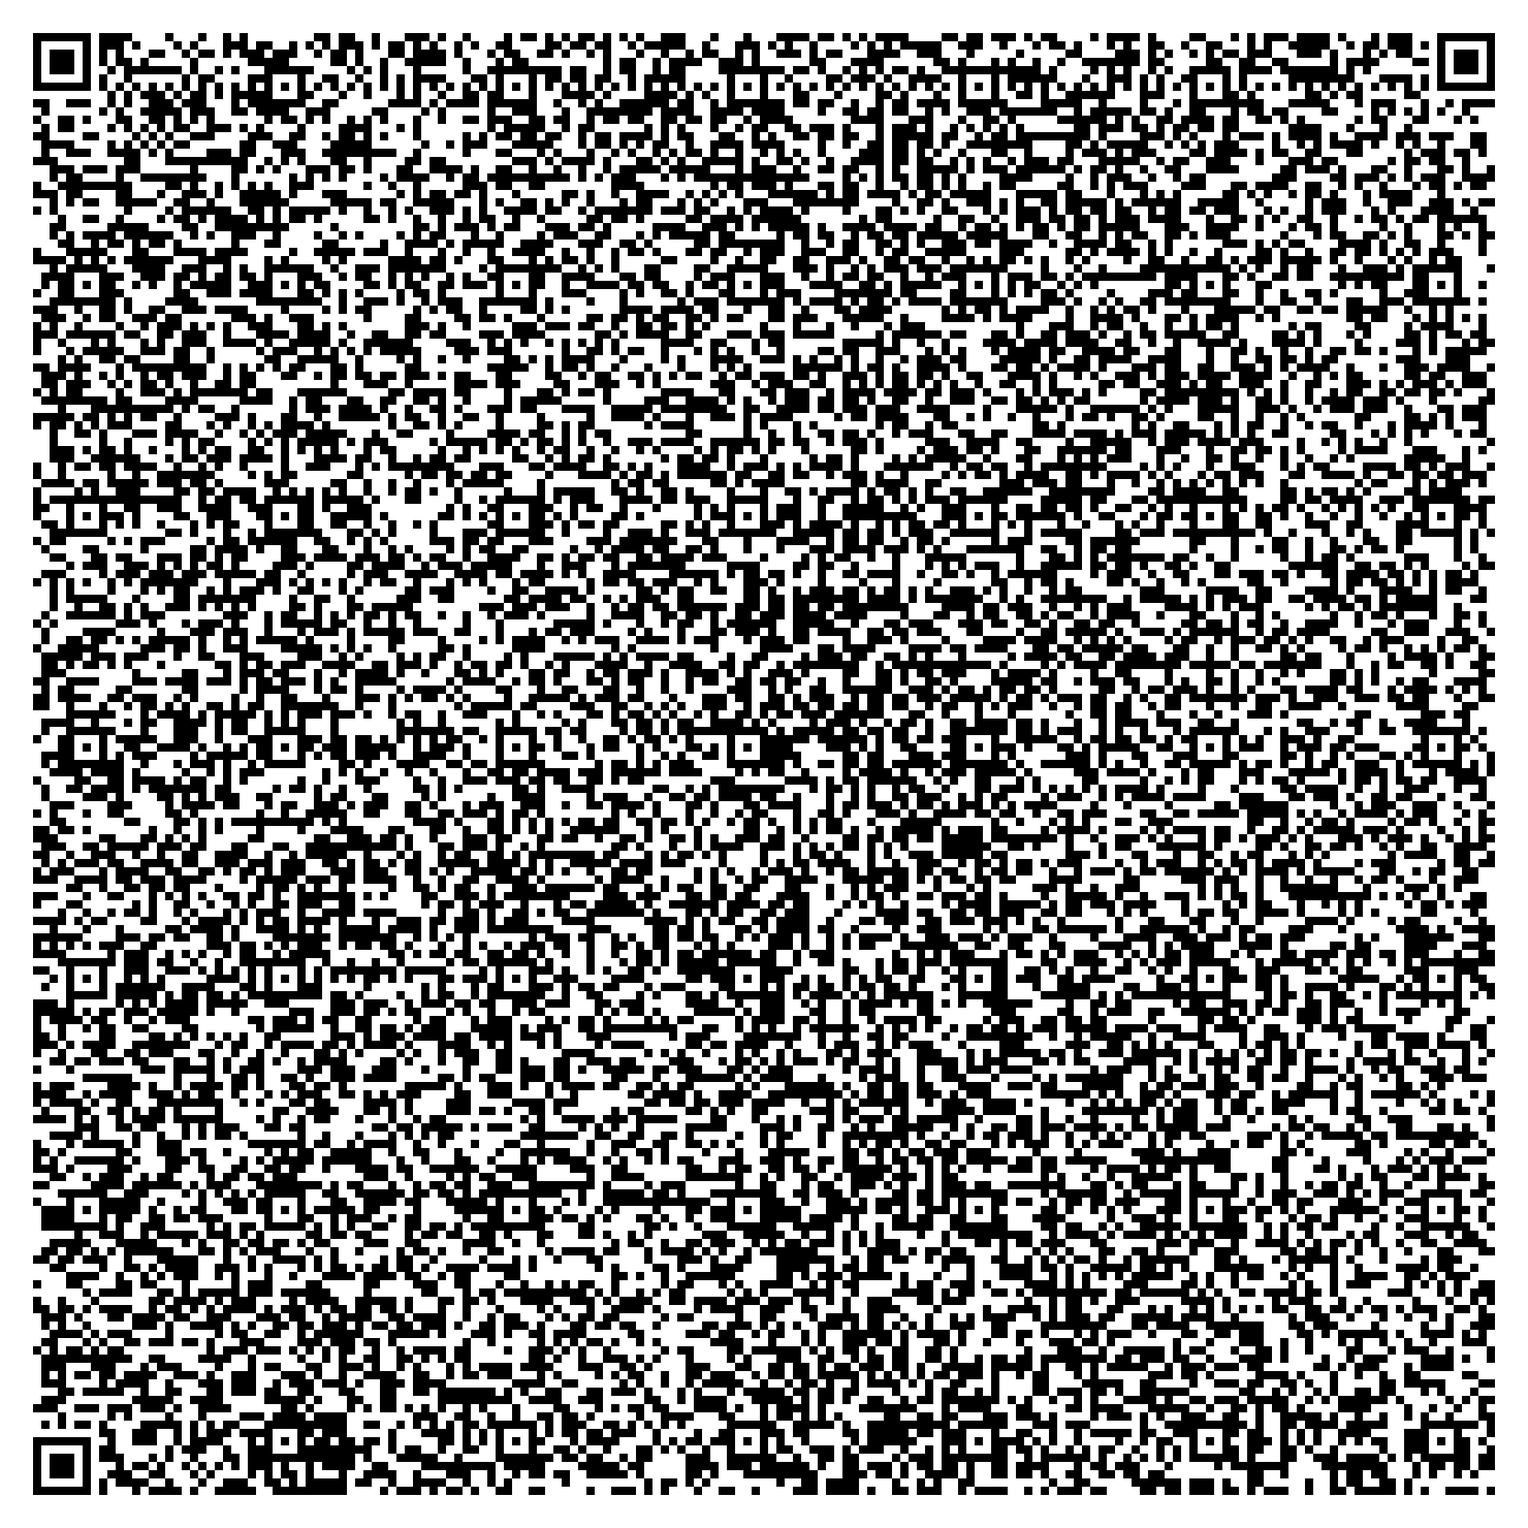
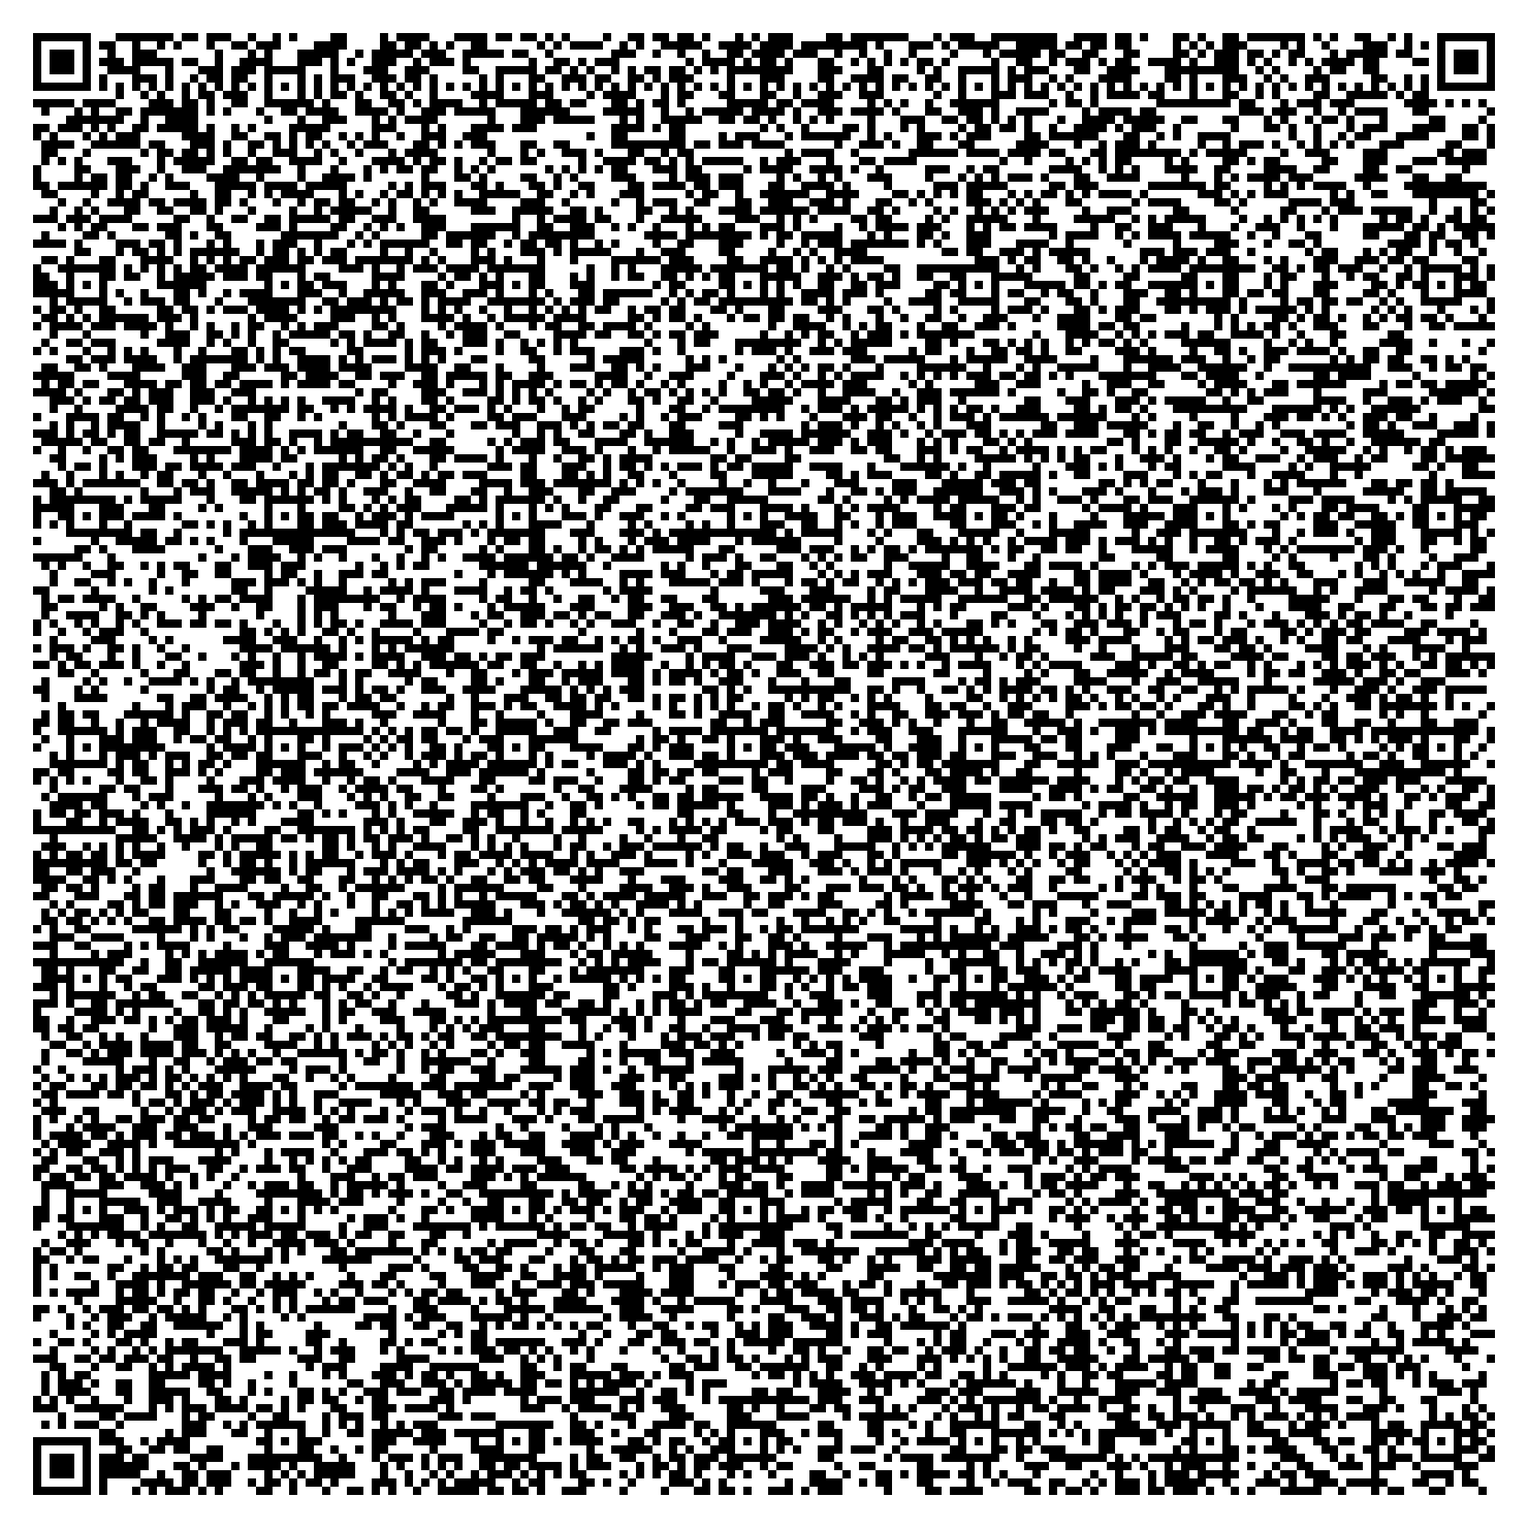
add about

diff --git a/about.html b/about.html
@@ -27,29 +27,117 @@
             </header>
             <article>
                 <p>
-                    <strong>qrforth</strong> is a tiny implementation of the <a href="https://en.wikipedia.org/wiki/Forth_(programming_language)">Forth</a> programming language that fits in a <a href="qrcode.html">QR code</a>. The heart of qrforth is a miniaturized <a href="https://www.rust-lang.org/">Rust</a> library compiled to <a href="https://webassembly.org/">WebAssembly</a> resulting in a ~1.3kB binary. The qrforth Rust library is responsible for the Forth stack, 11 primitive words, and API functions that allow the qrforth javascript code to easily access the state of the stack and registers. Javascript is used to initialize the webassembly module, accept user input, and define new words. The size of all of this comes to ~2.5kB, just small enough to fit in a version 40 QR code (177×177) with the lowest level error correction. 
+                    <strong>qrforth</strong> is a tiny implementation of the <a href="https://en.wikipedia.org/wiki/Forth_(programming_language)">Forth</a> programming language that fits in a <a href="qrcode.html">QR code</a>. The heart of qrforth is a miniaturized <a href="https://www.rust-lang.org/">Rust</a> library compiled to <a href="https://webassembly.org/">WebAssembly</a> resulting in a ~1.3kB binary. The qrforth Rust library is responsible for the Forth stack, 11 primitive words, and API functions that allow the qrforth javascript code to easily access the state of the stack and registers. Javascript is used to initialize the webassembly module, accept user input, and define new words. The size of all of this comes to ~2.8kB, just small enough to fit in a version 40 QR code (177x177) with the lowest level error correction.
                 </p>
                 <h1>
                     How it Works
                 </h1>
                 <p>
-
+                    The qrforth project consists of three main parts: the wasm module(lib.rs & qrforth.wasm), the html/javascript code(qrforth.html), and the qrforth.com webpage(index.html). The wasm module and html/javascript come together and are encoded in the QR code. The qrforth.com webpage is a simple static site hosted on <a href="https://pages.github.com/">GitHub Pages</a> that serves as a landing page and decodes qrforth.<br>
+                    <br>
+                    The url encoded in the QR code looks something like this <code>http://qrforth.com/#i9EKAICqqqrq/26XE5dDdph...</code> (truncated for readability). The qrforth wasm module is encoded in html/javascript page and the whole thing is compressed and encoded in the url using <a href="https://en.wikipedia.org/wiki/URI_fragment">URI fragments</a>. The qrforth.com webpage receives the URI fragment, decodes and decompresses it, and serves the resulting html as an iframe. All of this is done in the browser with no server side code. The following sections go into more detail on how each part of qrforth works.
+                <p>
+                    To compile our rust library to webassembly we use the <code>--target=wasm32-unknown-unknown --release</code> cargo build flags. We need to keep the resulting wasm binary as small as possible so we need to: 1) use the <code>#![no_std]</code> attribute to disable the standard library, 2) define a custom panic handler with <code>#[panic_handler]</code>, 3) statically allocate our variables to avoid brining in dlmalloc, and 4) strip and optimize our binary with the strip and lto setting in our Cargo.toml file. All of this will keep the rust compiler from adding in typically useful but sizeable code to our binary. I've linked some super helpful resources below that go into more detail on how to do this.
                 </p>
                 <ul>
-                    <p>Inspired by these cool projects:</p>
-                    <li><a href=".">sectorforth</a></li>
-                    <li><a href="about.html">Easy Forth</a></li>
-                    <li><a href="qrcode.html">ittybitty</a></li>
-                    <li><a href="examples.html">?</a></li>
+                    <li><a href="https://surma.dev/things/rust-to-webassembly/">Rust to WebAssembly the hard way</a>, Surma</li>
+                    <li><a href="https://nickb.dev/blog/avoiding-allocations-in-rust-to-shrink-wasm-modules/">Avoiding allocations in rust to shrink wasm modules</a>, nickb</li>
+                    <li><a href="https://darkcoding.net/software/a-very-small-rust-binary-indeed/">A very small rust binary indeed</a>, Graham King</li>
+                </ul>
+                <p>
+                    Now what we have our qrforth.wasm binary, we can encode it as a base64 string and put it in our qrforth.html page. The javascript in qrforth.html will decode the base64 string and initialize the wasm module when the browser loads the page. The qrforth.html page is now complete and the url fragment can be created by encoding the html as a base64 string and compressing it with <a href="https://github.com/google/brotli">brotli</a>. The URL fragment is then appended to the qrforth.com url and the resulting url is encoded as a <a href="/qrcode.html">QR code</a>.<br>
+                    <br>
+                    All of these steps are automated with a build script that makes rebuilding as easy as running <code>./build.sh</code>. qrforth can also be run locally with a simple python sever and running <code>./build.sh --local</code>. More info can be found in the <a href="https://github.com/mattdeeds/qrforth">GitHub repository</a>.
+                </p>
+                <h1>
+                    Forth Implementation
+                </h1>
+                <p>
+                    The qrforth implementation of Forth is inspired by <a href="https://github.com/cesarblum/sectorforth">sectorforth</a> which is designed to fit in a 512-byte boot sector. qrforth adds a few more words for convenience but otherwise is very minimal. Don't expect qrforth to be a perfect implementation of Forth or ANS Forth compliant, there are already plenty of well designed implementations out there. The goal of qrforth is mainly just to learn more about Forth, WebAssembly, and Rust.<br>
+                    The memory for the system is arbitrarily laid out as an array of 32-bit signed integers, 8000 elements in length. The first 4000 elements reserved for the Forth stack and the second 4000 is general system memory. There is a 8-bit <code>FLAGS</code> register that is used communicating state from the wasm module to the qrforth html page. User input and output and the Forth dictionary are handled by the page's javascript. The following is a list of the 11 primitive words that make up qrforth:
+                    <table>
+                        <thead>
+                            <tr>
+                                <th>Word</th>
+                                <th>Definition</th>
+                                <th>Stack Effect</th>
+                            </tr>
+                        </thead>
+                        <tbody>
+                            <tr>
+                                <td><code>push</code></td>
+                                <td>Push x onto the stack</td>
+                                <td><i>( x -- )</i></td>
+                            </tr>
+                            <tr>
+                                <td><code>+</code></td>
+                                <td>Sum the two numbers at the top of the stack</td>
+                                <td><i>( x y -- z )</i></td>
+                            </tr>
+                            <tr>
+                                <td><code>nand</code></td>
+                                <td>NAND the two numbers at the top of the stack</td>
+                                <td><i>( x y -- z )</i></td>
+                            </tr>
+                            <tr>
+                                <td><code>drop</code></td>
+                                <td>Drop the number at the top of the stack</td>
+                                <td><i>( x -- )</i></td>
+                            </tr>
+                            <tr>
+                                <td><code>0=</code></td>
+                                <td>If top of stack is 0, set to -1, otherwise set to 0</td>
+                                <td><i>( x -- flag )</i></td>
+                            </tr>
+                            <tr>
+                                <td><code>@</code></td>
+                                <td>Fetch memory contents at addr</td>
+                                <td><i>( addr -- x )</i></td>
+                            </tr>
+                            <tr>
+                                <td><code>!</code></td>
+                                <td>Store x at addr</td>
+                                <td><i>( x addr -- )</i></td>
+                            </tr>
+                            <tr>
+                                <td><code>sp@</code></td>
+                                <td>Return stack top pointer to top of stack</td>
+                                <td><i>( -- sp )</i></td>
+                            </tr>
+                            <tr>
+                                <td><code>emit</code></td>
+                                <td>Print low byte of x as an ASCII character</td>
+                                <td><i>( x -- )</i></td>
+                            </tr>
+                            <tr>
+                                <td><code>.</code></td>
+                                <td>Print top of the stack</td>
+                                <td><i>( x -- )</i></td>
+                            </tr>
+                            <tr>
+                                <td><code>key</code></td>
+                                <td>Read a character and push it onto the stack</td>
+                                <td><i>( -- x )</i></td>
+                            </tr>
+                        </tbody>
+                    </table>
+                    In typical Forth fashion, colon (<code>:</code>) and semicolon (<code>;</code>) words are available and are used to define new words in the dictionary. Commenting code is supported using parentheses. You can easily define a new word like <code>dup</code> to duplicate the top value on the stack:<br>
+                    <code>: dup ( x -- x x ) sp@ @ ;</code><br>
+                </p>
+                <h2>Inspired by these cool projects:</h2>
+                <ul>
+                    <li><a href="https://github.com/cesarblum/sectorforth">sectorforth</a></li>
+                    <li><a href="https://github.com/skilldrick/easyforth">Easy Forth</a></li>
+                    <li><a href="https://github.com/alcor/itty-bitty">itty.bitty</a></li>
                 </ul>
             </article>
             <footer>
                 <nav>
                     <ul>
-                        <small>qrforth v1.0.0, 2023 Matthew Deeds, 
+                        <small>qrforth v0.1.0, 2023 Matthew Deeds, 
                             <a href="https://opensource.org/license/mit/">MIT License</a>
                         <br>
-                        <a href="https://github.com/mattdeeds/qrforth">GitHub Repo</a>
+                        <a href="https://github.com/mattdeeds/qrforth">GitHub</a>
                         </small>
                     </ul>
                 </nav>

diff --git a/qrforth.html b/qrforth.html
@@ -1,115 +1,3 @@
 <!DOCTYPE html><body><div id="term"><pre id="out"></pre><textarea placeholder="Enter your forth code here" rows="5" style="width: 100%;" id="in" autofocus></textarea><pre id="stack"></pre></div><script>
[1 lines of base64/hex data omitted]
-wabuf = Uint8Array.from(atob(wa64), c => c.charCodeAt(0)).buffer;
-WebAssembly.compile(wabuf).then(x => {
-    wasm = x;
-    ins = new WebAssembly.Instance(wasm);
-});
-const term = document.getElementById('term');
-const out = document.getElementById('out');
-const input = document.getElementById('in');
-const stack = document.getElementById('stack');
-const dict = {};
-let com = '';
-input.addEventListener('keyup', function(e) {
-    if (e.key === 'Enter' && !e.shiftKey) {
-        e.preventDefault();
-        const txt = input.value;
-        input.value = '';
-        com = txt.replace(/\n/g, ' ');
-        executeCommand(com.replace(/\([^)]*\)/g, ''));
-        document.getElementById( 'stack' ).scrollIntoView();
-    }
-});
-
-function output(text) {
-    out.innerHTML += text;
-    term.scrollTop = term.scrollHeight;
-}
-
-function redrawStack() {
-    const out = [];
-    for (let i = 0; i < ins.exports.top(); i++) {
-        out.push(ins.exports.stack(i));
-    }
-    stack.innerHTML = '[' + `${out}` + ']';
-}
-
-function defineWord(tokens, mark) {
-    // take tokens up to first ';'
-    let word = [];
-    for (let i = mark; i < tokens.length; i++) {
-        if (tokens[i] === ';') {
-            word = tokens.slice(mark, i + 1);
-            break;
-        }
-    }
-    let wordlen = word.length + mark;
-
-    word.shift();
-    word.pop();
-    const name = word.shift();
-    const definition = word.join(' ');
-    dict[name] = definition;
-    console.log("dictionary:", dict);
-    console.log("wordlen:", wordlen);
-    return wordlen
-}
-
-function executeCommand(command) {
-    const tokens = command.split(/\s+/);
-    let display = true;
-    let msg = '';
-    let status = '';
-    let i = 0
-    let wordlen = 0
-    for (i; i < tokens.length; i++) {
-        
-        const token = tokens[i];
-        console.log('loop start:');
-        console.log('tokens: ', tokens);
-        console.log('current token: ', token);
-        console.log('i: ', i);
-
-        if (token === '') {
-            continue;
-        } else if (token === 'cr') {
-            output('\n');
-        } else if (token in dict) {
-            executeCommand(dict[token]);
-            display = false;
-        } else if (!isNaN(token)) {
-            ins.exports.forth( 1886745448, parseInt(token) );
-        } else if (token === ':') {
-            wordlen = defineWord(tokens, wordlen);
-            i = wordlen - 1;
-        } else {
-            let num = 0;
-            for (let i = 0; i < token.length; i++) {
-                const charCode = token.charCodeAt(i);
-                num = (num << 8) | charCode;
-            }
-            ins.exports.forth( num );
-        }
-        let flags = ins.exports.flags();
-        if (flags & 1) {msg += 'Overflow';}
-        else if (flags & 2) {msg += 'Underflow';}
-        else if (flags & 4) {msg += String.fromCharCode(ins.exports.stack(ins.exports.top()));}
-        else if (flags & 8) {msg += ins.exports.stack(ins.exports.top());}
-        else if (flags & 16) {
-            // read input and push to stack
-            const input = prompt('Enter input');
-            if (isNaN(input)) {
-                ins.exports.forth( 1886745448, input.charCodeAt(0) );
-            } else {
-                ins.exports.forth( 1886745448, parseInt(input) );
-            }
-        }
-        if (flags & 32) {status = `${token}` + ' ?';}
-        ins.exports.zflag();
-    }
-    if (status === '') {status = 'ok';}
-    if (display) {output(`${com}` + ' ' + `${msg}` + ' ' + `${status}` + '\n');}
-    redrawStack();
-}
[1 lines of base64/hex data omitted]
 </script></body></html>

diff --git a/examples.html b/examples.html
@@ -30,28 +30,28 @@
                     <strong>Try out these examples:</strong>
                 </p>
                 <p>
-                    <small>Input each line of an example one at a time for a better idea of how the program works.</small>
+                    Work in progress...
                 </p>
-                <h5>
+                <!-- <p>
+                    <small>Input each line of an example one at a time for a better idea of how the program works.</small>
+                </p> -->
+                <!-- <h5>
                     Hello World
                 </h5>
-                <code>: hello( say hello world ) 1 2 3 ; 
-                    : hello( say hello world ) 1 2 3 4; 
-                </code>
                 <h5>
                     Count Primes
                 </h5>
                 <h5>
                     FizzBuzz
-                </h5>
+                </h5> -->
             </article>
             <footer>
                 <nav>
                     <ul>
-                        <small>qrforth v1.0.0, 2023 Matthew Deeds, 
+                        <small>qrforth v0.1.0, 2023 Matthew Deeds, 
                             <a href="https://opensource.org/license/mit/">MIT License</a>
                         <br>
-                        <a href="https://github.com/mattdeeds/qrforth">GitHub Repo</a>
+                        <a href="https://github.com/mattdeeds/qrforth">GitHub</a>
                         </small>
                     </ul>
                 </nav>

diff --git a/qrcode.html b/qrcode.html
@@ -29,10 +29,10 @@
             <footer>
                 <nav>
                     <ul>
-                        <small>qrforth v1.0.0, 2023 Matthew Deeds, 
+                        <small>qrforth v0.1.0, 2023 Matthew Deeds, 
                             <a href="https://opensource.org/license/mit/">MIT License</a>
                         <br>
-                        <a href="https://github.com/mattdeeds/qrforth">GitHub Repo</a>
+                        <a href="https://github.com/mattdeeds/qrforth">GitHub</a>
                         </small>
                     </ul>
                 </nav>

diff --git a/index.html b/index.html
@@ -76,10 +76,10 @@
             </nav>
             <nav>
                 <ul>
-                    <small>qrforth v1.0.0, 2023 Matthew Deeds, 
+                    <small>qrforth v0.1.0, 2023 Matthew Deeds, 
                         <a href="https://opensource.org/license/mit/">MIT License</a>
                     <br>
-                    <a href="https://github.com/mattdeeds/qrforth">GitHub Repo</a>
+                    <a href="https://github.com/mattdeeds/qrforth">GitHub</a>
                     </small>
                 </ul>
             </nav>

diff --git a/src/lib.rs b/src/lib.rs
@@ -16,11 +16,8 @@ const STACK_SIZE: usize = 4000;
 //                    ^
 // TOP => 2
 
-// Stack at memory location 0 ( 0x0000 ) to 3999 ( 0x0F9F ) ( 4000 bytes )
-// System memory at 4000 ( 0x0FA0 ) to 7999 ( 0x1F9F ) ( 4000 bytes )
 static mut STACK: [i32; STACK_SIZE * 2] = [0; STACK_SIZE * 2];
 static mut TOP: u16 = 0;
-// static OFFSET: u16 = 4000;
 static MIN: u16 = 2;
 
 static mut FLAGS: u8 = 0;
@@ -66,7 +63,7 @@ extern "C" fn stack(index: u16) -> i32 {
 // Push x onto the stack, ( x -- )
 extern "C" fn push(input: i32) {
     unsafe {
-        if usize::from(TOP) > STACK_SIZE {
+        if usize::from(TOP) >= STACK_SIZE {
             // set overflow bit in flags register
             FLAGS |= 1;
         } else {

diff --git a/comp.py b/comp.py
@@ -8,6 +8,11 @@ def compress(data):
 # get data from arg
 file = sys.argv[1]
 
+if len(sys.argv) > 2:
+    url = "http://[::]:8000/#"
+else:
+    url = "https://qrforth.com/#"
+    
 # load data from file
 with open(file, "r") as f:
     html = f.read()
@@ -40,4 +45,4 @@ print("Output bytes: " + str(len(data)))
 
 # save final url to file
 with open("url.txt", "w") as f:
-    f.write("http://[::]:8000/#" + data)
+    f.write(url + data)

diff --git a/README.md b/README.md
@@ -13,21 +13,3 @@ base64 -i target/wasm32-unknown-unknown/release/qrforth.wasm -o 64
 cargo bloat
 cargo build --target=wasm32-unknown-unknown --release
 twiggy top target/wasm32-unknown-unknown/release/qrforth.wasm
-
-## Primitives
-
-- Fetch = @
-- Store = !
-- Flag = flag
-- Add = +
-- Nand = nand
-- Drop = drop
-- Key = key
-- Stack pointer = sp@
-- Emit = emit
-
-
-<!-- todo -->
-<!-- shrink wasm file -->
-<!-- shrink qrforth.html -->
-<!-- one command to compile, convert to base64, put in html, run comp.py, run qr.py -->
